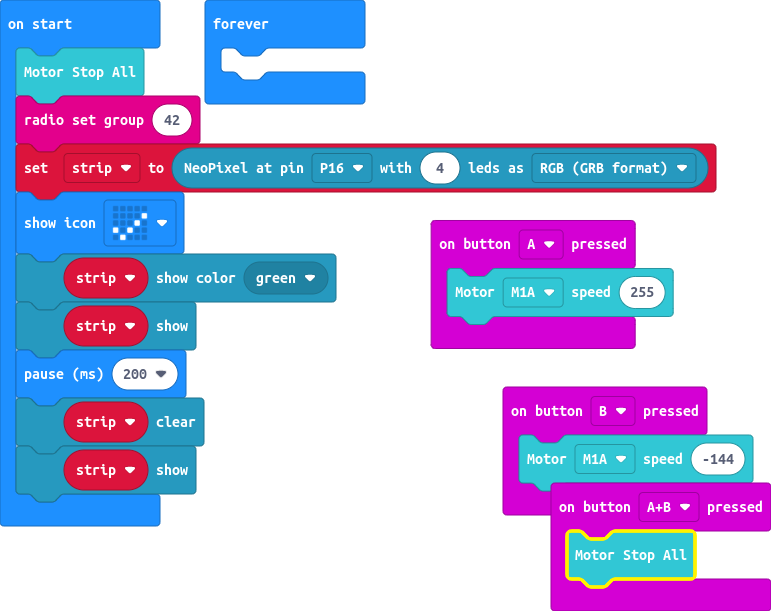
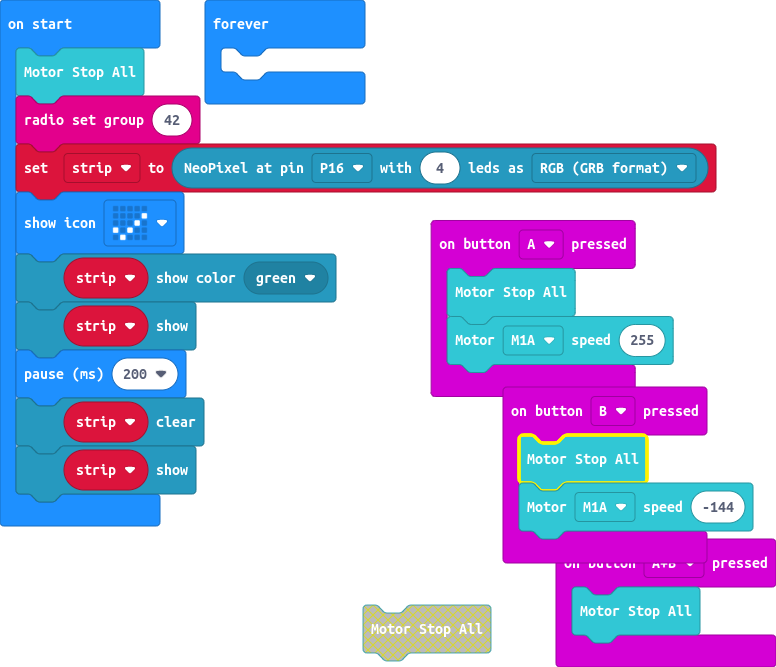
stop motor before change direction

diff --git a/main.ts b/main.ts
@@ -1,10 +1,12 @@
 input.onButtonPressed(Button.A, function () {
+    robotbit.MotorStopAll()
     robotbit.MotorRun(robotbit.Motors.M1A, 255)
 })
 input.onButtonPressed(Button.AB, function () {
     robotbit.MotorStopAll()
 })
 input.onButtonPressed(Button.B, function () {
+    robotbit.MotorStopAll()
     robotbit.MotorRun(robotbit.Motors.M1A, -144)
 })
 robotbit.MotorStopAll()
